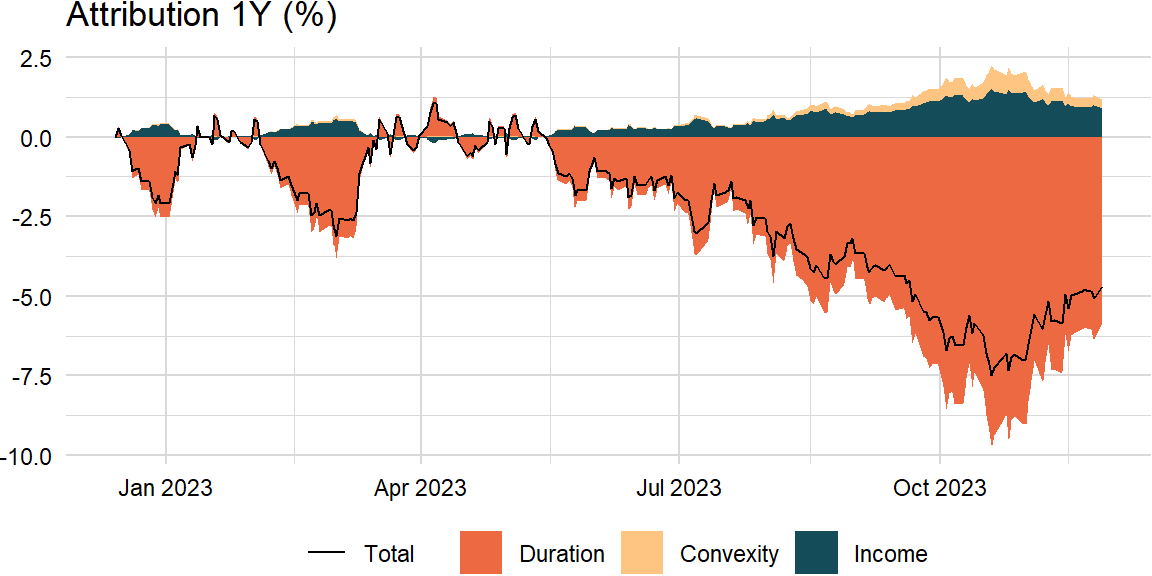
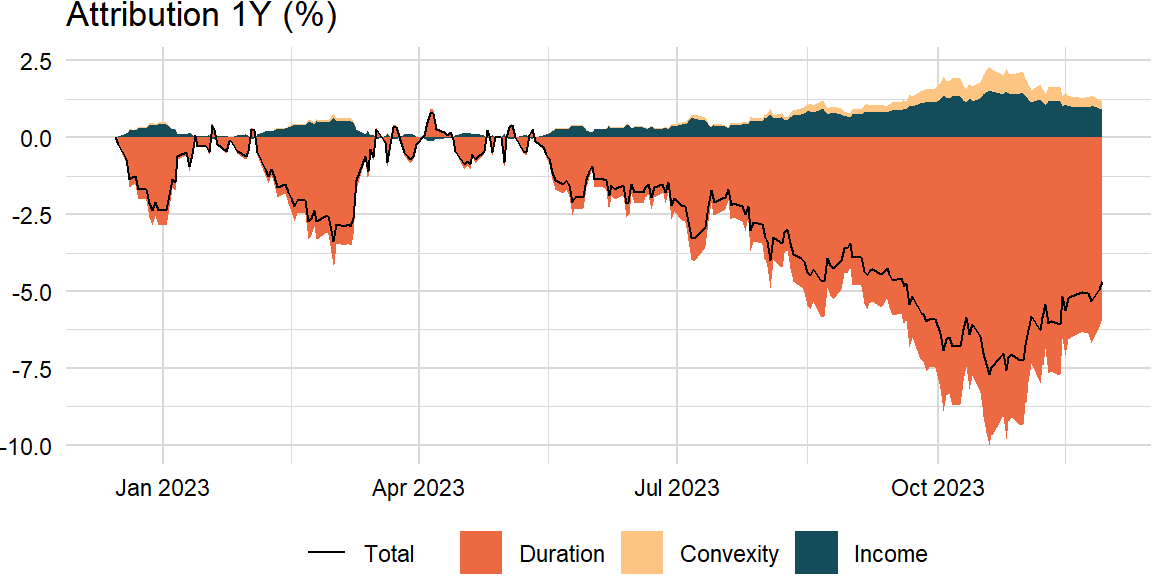
Version: 1.0.0

diff --git a/docs/posts/securities-py/index.html b/docs/posts/securities-py/index.html
@@ -7,7 +7,7 @@
 <meta name="viewport" content="width=device-width, initial-scale=1.0, user-scalable=yes">
 
 <meta name="author" content="Jason Foster">
-<meta name="dcterms.date" content="2023-11-28">
+<meta name="dcterms.date" content="2023-11-29">
 
 <title>jjf234.github.io - Securities</title>
 <style>
@@ -157,7 +157,7 @@ pre > code.sourceCode > span > a:first-child::before { text-decoration: underlin
       <div>
       <div class="quarto-title-meta-heading">Published</div>
       <div class="quarto-title-meta-contents">
-        <p class="date">November 28, 2023</p>
+        <p class="date">November 29, 2023</p>
       </div>
     </div>
     
@@ -661,11 +661,11 @@ V(S+\Delta S,\sigma+\Delta\sigma,t+\Delta t)-V(S,\sigma,t)&amp;\approx{\frac{\pa
 <span id="cb34-14"><a href="#cb34-14" aria-hidden="true" tabindex="-1"></a>    vega_pnl <span class="op">=</span> vega <span class="op">*</span> dsigma <span class="op">/</span> value</span>
 <span id="cb34-15"><a href="#cb34-15" aria-hidden="true" tabindex="-1"></a>    theta_pnl <span class="op">=</span> theta <span class="op">*</span> dt <span class="op">/</span> value</span>
 <span id="cb34-16"><a href="#cb34-16" aria-hidden="true" tabindex="-1"></a>    </span>
-<span id="cb34-17"><a href="#cb34-17" aria-hidden="true" tabindex="-1"></a>    result <span class="op">=</span> {<span class="st">"total"</span>: delta_pnl <span class="op">+</span> gamma_pnl <span class="op">+</span> vega_pnl <span class="op">+</span> theta_pnl,</span>
-<span id="cb34-18"><a href="#cb34-18" aria-hidden="true" tabindex="-1"></a>              <span class="st">"delta"</span>: delta_pnl,</span>
-<span id="cb34-19"><a href="#cb34-19" aria-hidden="true" tabindex="-1"></a>              <span class="st">"gamma"</span>: gamma_pnl,</span>
-<span id="cb34-20"><a href="#cb34-20" aria-hidden="true" tabindex="-1"></a>              <span class="st">"vega"</span>: vega_pnl,</span>
-<span id="cb34-21"><a href="#cb34-21" aria-hidden="true" tabindex="-1"></a>              <span class="st">"theta"</span>: theta_pnl}</span>
+<span id="cb34-17"><a href="#cb34-17" aria-hidden="true" tabindex="-1"></a>    result <span class="op">=</span> pd.DataFrame({<span class="st">"total"</span>: delta_pnl <span class="op">+</span> gamma_pnl <span class="op">+</span> vega_pnl <span class="op">+</span> theta_pnl,</span>
+<span id="cb34-18"><a href="#cb34-18" aria-hidden="true" tabindex="-1"></a>                           <span class="st">"delta"</span>: delta_pnl,</span>
+<span id="cb34-19"><a href="#cb34-19" aria-hidden="true" tabindex="-1"></a>                           <span class="st">"gamma"</span>: gamma_pnl,</span>
+<span id="cb34-20"><a href="#cb34-20" aria-hidden="true" tabindex="-1"></a>                           <span class="st">"vega"</span>: vega_pnl,</span>
+<span id="cb34-21"><a href="#cb34-21" aria-hidden="true" tabindex="-1"></a>                           <span class="st">"theta"</span>: theta_pnl})</span>
 <span id="cb34-22"><a href="#cb34-22" aria-hidden="true" tabindex="-1"></a>    </span>
 <span id="cb34-23"><a href="#cb34-23" aria-hidden="true" tabindex="-1"></a>    <span class="cf">return</span> result</span></code><button title="Copy to Clipboard" class="code-copy-button"><i class="bi"></i></button></pre></div>
 </div>
@@ -686,11 +686,8 @@ V(S+\Delta S,\sigma+\Delta\sigma,t+\Delta t)-V(S,\sigma,t)&amp;\approx{\frac{\pa
 <span id="cb36-6"><a href="#cb36-6" aria-hidden="true" tabindex="-1"></a>options_df[<span class="st">"dsigma"</span>] <span class="op">=</span> options_df[<span class="st">"sigma"</span>] <span class="op">-</span> sigma</span></code><button title="Copy to Clipboard" class="code-copy-button"><i class="bi"></i></button></pre></div>
 </div>
 <div class="cell">
-<div class="sourceCode cell-code" id="cb37"><pre class="sourceCode python code-with-copy"><code class="sourceCode python"><span id="cb37-1"><a href="#cb37-1" aria-hidden="true" tabindex="-1"></a>attrib_cols <span class="op">=</span> [<span class="st">"total"</span>, <span class="st">"delta"</span>, <span class="st">"gamma"</span>, <span class="st">"vega"</span>, <span class="st">"theta"</span>]</span>
-<span id="cb37-2"><a href="#cb37-2" aria-hidden="true" tabindex="-1"></a>attrib_df <span class="op">=</span> options_df.<span class="bu">apply</span>(<span class="kw">lambda</span> x: pnl_option(<span class="bu">type</span>, S, K, r, q, tau, sigma,</span>
-<span id="cb37-3"><a href="#cb37-3" aria-hidden="true" tabindex="-1"></a>                                                  x[<span class="st">"dS"</span>], x[<span class="st">"dt"</span>], x[<span class="st">"dsigma"</span>]), axis <span class="op">=</span> <span class="dv">1</span>)</span>
-<span id="cb37-4"><a href="#cb37-4" aria-hidden="true" tabindex="-1"></a>attrib_df <span class="op">=</span> pd.DataFrame.from_records(attrib_df, index <span class="op">=</span> attrib_df.index)</span>
-<span id="cb37-5"><a href="#cb37-5" aria-hidden="true" tabindex="-1"></a>attrib_df <span class="op">=</span> attrib_df[attrib_cols]</span></code><button title="Copy to Clipboard" class="code-copy-button"><i class="bi"></i></button></pre></div>
+<div class="sourceCode cell-code" id="cb37"><pre class="sourceCode python code-with-copy"><code class="sourceCode python"><span id="cb37-1"><a href="#cb37-1" aria-hidden="true" tabindex="-1"></a>attrib_df <span class="op">=</span> pnl_option(<span class="bu">type</span>, S, K, r, q, tau, sigma,</span>
+<span id="cb37-2"><a href="#cb37-2" aria-hidden="true" tabindex="-1"></a>                       options_df[<span class="st">"dS"</span>], options_df[<span class="st">"dt"</span>], options_df[<span class="st">"dsigma"</span>])</span></code><button title="Copy to Clipboard" class="code-copy-button"><i class="bi"></i></button></pre></div>
 </div>
 <div class="cell">
 <div class="cell-output-display">
@@ -805,7 +802,7 @@ S_{k}(t_{i+1})&amp;=S_{k}(t_{i})\exp\left(\sqrt{t_{i+1}-t_{i}}\sum_{j=1}^{d}{A_{
 <span id="cb42-4"><a href="#cb42-4" aria-hidden="true" tabindex="-1"></a>  </span>
 <span id="cb42-5"><a href="#cb42-5" aria-hidden="true" tabindex="-1"></a>    <span class="co"># assumes underlying stock price follows geometric Brownian motion with constant volatility</span></span>
 <span id="cb42-6"><a href="#cb42-6" aria-hidden="true" tabindex="-1"></a>    levels_sim <span class="op">=</span> pd.DataFrame(sim_multi_gbm(width <span class="op">+</span> <span class="dv">1</span>, S, mu, sigma, dt))</span>
-<span id="cb42-7"><a href="#cb42-7" aria-hidden="true" tabindex="-1"></a>    returns_sim <span class="op">=</span> np.log(levels_sim).diff().dropna()</span>
+<span id="cb42-7"><a href="#cb42-7" aria-hidden="true" tabindex="-1"></a>    returns_sim <span class="op">=</span> np.log(levels_sim).diff()</span>
 <span id="cb42-8"><a href="#cb42-8" aria-hidden="true" tabindex="-1"></a></span>
 <span id="cb42-9"><a href="#cb42-9" aria-hidden="true" tabindex="-1"></a>    mu_sim <span class="op">=</span> returns_sim.mean() <span class="op">*</span> scale[<span class="st">"periods"</span>]</span>
 <span id="cb42-10"><a href="#cb42-10" aria-hidden="true" tabindex="-1"></a>    sigma_sim <span class="op">=</span> returns_sim.std() <span class="op">*</span> np.sqrt(scale[<span class="st">"periods"</span>])</span>
@@ -822,10 +819,10 @@ S_{k}(t_{i+1})&amp;=S_{k}(t_{i})\exp\left(\sqrt{t_{i+1}-t_{i}}\sum_{j=1}^{d}{A_{
 <span id="cb44-2"><a href="#cb44-2" aria-hidden="true" tabindex="-1"></a>              <span class="st">"theoretical"</span>: mu_df.mean()})</span></code><button title="Copy to Clipboard" class="code-copy-button"><i class="bi"></i></button></pre></div>
 <div class="cell-output cell-output-stdout">
 <pre><code>   empirical  theoretical
-0   0.087331     0.087794
-1   0.017807     0.016112
-2  -0.000914    -0.000989
-3   0.000827     0.000801</code></pre>
+0   0.087331     0.090035
+1   0.017807     0.016735
+2  -0.000914    -0.000493
+3   0.000827     0.000720</code></pre>
 </div>
 </div>
 <div class="cell">
@@ -833,17 +830,17 @@ S_{k}(t_{i+1})&amp;=S_{k}(t_{i})\exp\left(\sqrt{t_{i+1}-t_{i}}\sum_{j=1}^{d}{A_{
 <span id="cb46-2"><a href="#cb46-2" aria-hidden="true" tabindex="-1"></a>              <span class="st">"theoretical"</span>: sigma_df.mean()})</span></code><button title="Copy to Clipboard" class="code-copy-button"><i class="bi"></i></button></pre></div>
 <div class="cell-output cell-output-stdout">
 <pre><code>   empirical  theoretical
-0   0.179770     0.179596
-1   0.062215     0.062231
-2   0.008185     0.008191
-3   0.016938     0.016933</code></pre>
+0   0.179770     0.179444
+1   0.062215     0.062361
+2   0.008185     0.008164
+3   0.016938     0.016923</code></pre>
 </div>
 </div>
 </section>
 <section id="vasicek-model" class="level3">
 <h3 class="anchored" data-anchor-id="vasicek-model">Vasicek model</h3>
 <div class="cell">
-<div class="sourceCode cell-code" id="cb48"><pre class="sourceCode python code-with-copy"><code class="sourceCode python"><span id="cb48-1"><a href="#cb48-1" aria-hidden="true" tabindex="-1"></a><span class="co"># assumes interest rate follows mean-reverting process with stochastic volatility</span></span></code><button title="Copy to Clipboard" class="code-copy-button"><i class="bi"></i></button></pre></div>
+<div class="sourceCode cell-code" id="cb48"><pre class="sourceCode python code-with-copy"><code class="sourceCode python"><span id="cb48-1"><a href="#cb48-1" aria-hidden="true" tabindex="-1"></a><span class="co"># assumes interest rates follow mean-reverting process with stochastic volatility</span></span></code><button title="Copy to Clipboard" class="code-copy-button"><i class="bi"></i></button></pre></div>
 </div>
 </section>
 </section>
@@ -904,7 +901,7 @@ x_{n+1}=x_{n}-{\frac{f(x_{n})}{f'(x_{n})}}
 <div class="cell">
 <div class="sourceCode cell-code" id="cb52"><pre class="sourceCode python code-with-copy"><code class="sourceCode python"><span id="cb52-1"><a href="#cb52-1" aria-hidden="true" tabindex="-1"></a>implied_vol_newton(params, <span class="bu">type</span>, S, K, r, q, tau) </span></code><button title="Copy to Clipboard" class="code-copy-button"><i class="bi"></i></button></pre></div>
 <div class="cell-output cell-output-stdout">
-<pre><code>0.14102884881499014</code></pre>
+<pre><code>0.1409319368898775</code></pre>
 </div>
 </div>
 </section>
@@ -934,7 +931,7 @@ x_{n+1}=x_{n}-{\frac{f(x_{n})}{f'(x_{n})}}
 <div class="cell">
 <div class="sourceCode cell-code" id="cb55"><pre class="sourceCode python code-with-copy"><code class="sourceCode python"><span id="cb55-1"><a href="#cb55-1" aria-hidden="true" tabindex="-1"></a>implied_vol_optim(start, <span class="bu">type</span>, S, K, r, q, tau, target)</span></code><button title="Copy to Clipboard" class="code-copy-button"><i class="bi"></i></button></pre></div>
 <div class="cell-output cell-output-stdout">
-<pre><code>0.1410288413644094</code></pre>
+<pre><code>0.14093192943929705</code></pre>
 </div>
 </div>
 <!-- ## Variance swaps -->

diff --git a/docs/index.html b/docs/index.html
@@ -161,7 +161,7 @@ ul.task-list li input[type="checkbox"] {
 
 <div class="quarto-listing quarto-listing-container-grid" id="listing-listing">
 <div class="list grid quarto-listing-cols-3">
-<div class="g-col-1" data-index="0" data-categories="analysis,finance,python" data-listing-date-sort="1701218301000" data-listing-file-modified-sort="1701218301656" data-listing-date-modified-sort="NaN" data-listing-reading-time-sort="24">
+<div class="g-col-1" data-index="0" data-categories="analysis,finance,python" data-listing-date-sort="1701302792000" data-listing-file-modified-sort="1701302792920" data-listing-date-modified-sort="NaN" data-listing-reading-time-sort="24">
 <a href="./posts/securities-py/index.html" class="quarto-grid-link">
 </a><div class="quarto-grid-item card h-100 card-left"><a href="./posts/securities-py/index.html" class="quarto-grid-link">
 <p class="card-img-top"><img src="posts\securities-py\index_files\figure-html\unnamed-chunk-23-1.png" style="height: 0px;"  class="thumbnail-image card-img"/></p>
@@ -188,7 +188,7 @@ For a given spot price <span class="math inline">\(S\)</span>, strike price <spa
 </a><a href="mailto:jason.j.foster@gmail.com">Jason Foster</a>
 </div>
 <div class="listing-date">
-Nov 28, 2023
+Nov 29, 2023
 </div>
 </div>
 </div>
